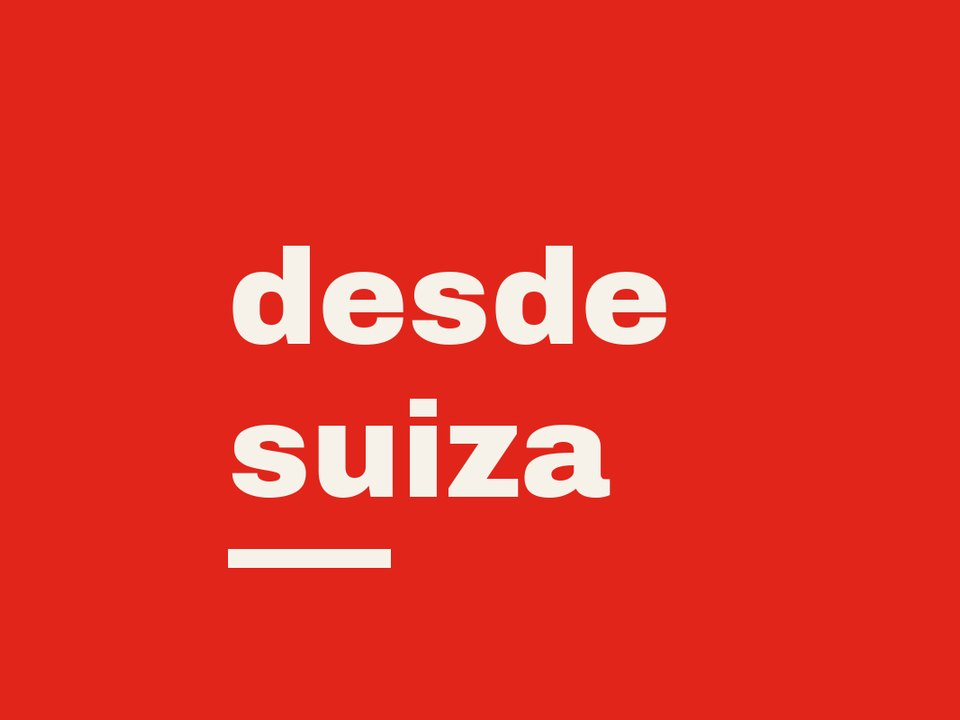
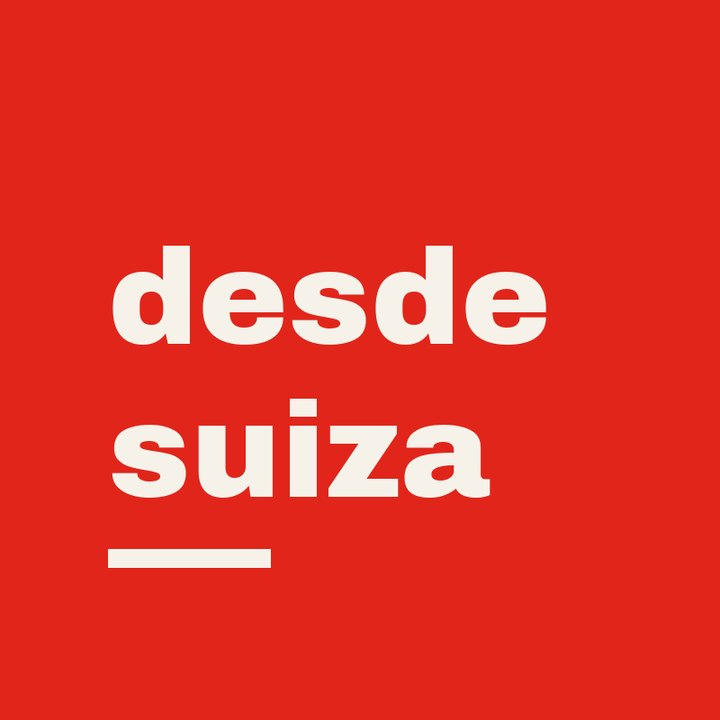
Square project covers and portrait
Claude-Session: https://claude.ai/code/session_01YAgtacwRQVfNvpHSNF1bKh

diff --git a/index.html b/index.html
@@ -83,7 +83,7 @@ nav a[aria-current="page"]{color:var(--red-text)}
 .head-row p{color:var(--muted)}
 .grid{display:grid; grid-template-columns:repeat(auto-fit, minmax(260px, 1fr)); gap:22px}
 .card{background:var(--surface); border:1.5px solid var(--line); border-radius:14px; overflow:hidden; display:flex; flex-direction:column}
-.cover{display:block; width:100%; max-width:100%; aspect-ratio:4/3; object-fit:cover; background:#F7F5F0; border-bottom:1.5px solid var(--line)}
+.cover{display:block; width:100%; max-width:100%; aspect-ratio:1/1; object-fit:cover; background:#F7F5F0; border-bottom:1.5px solid var(--line)}
 .cover-text{aspect-ratio:2/1; max-width:100%; display:flex; align-items:center; justify-content:center; gap:14px; background:#1C1917; color:#F4EFE6; font-family:var(--display); font-size:34px; font-weight:600; letter-spacing:-0.02em}
 .cover-text .cross{width:34px; height:34px; border-radius:4px; background:#C8102E; position:relative; flex:none}
 .cover-text .cross::before,.cover-text .cross::after{content:""; position:absolute; background:#FFFFFF; left:50%; top:50%; transform:translate(-50%,-50%)}
@@ -109,8 +109,8 @@ footer .wrap{display:flex; flex-wrap:wrap; justify-content:space-between; gap:10
 
 /* about */
 .about-hero .wrap{display:flex; flex-wrap:wrap; align-items:center; gap:36px 56px; padding-block:80px}
-.portrait{flex:0 1 380px; max-width:100%; margin:0; position:relative}
-.portrait img{display:block; width:100%; max-width:100%; aspect-ratio:4/3; object-fit:cover; object-position:50% 28%; border-radius:16px; background:var(--cover)}
+.portrait{flex:0 1 340px; max-width:100%; margin:0; position:relative}
+.portrait img{display:block; width:100%; max-width:100%; aspect-ratio:1/1; object-fit:cover; object-position:50% 50%; border-radius:16px; background:var(--cover)}
 .portrait::after{content:""; position:absolute; left:-10px; bottom:-10px; width:64px; height:64px; border-radius:50%; background:
   repeating-linear-gradient(45deg, transparent 0 8px, color-mix(in srgb, var(--check) 85%, transparent) 8px 11px),
   repeating-linear-gradient(-45deg, transparent 0 8px, color-mix(in srgb, var(--check) 85%, transparent) 8px 11px), var(--red); border:4px solid var(--bg)}
@@ -187,7 +187,7 @@ footer .wrap{display:flex; flex-wrap:wrap; justify-content:space-between; gap:10
       </div>
       <div class="grid">
         <article class="card">
-          <img class="cover" src="hdp-cover.jpg" alt="Historias de Pasta logo: Dani holding a euro coin" width="960" height="720" loading="lazy">
+          <img class="cover" src="hdp-cover.jpg" alt="Historias de Pasta logo: Dani holding a euro coin" width="720" height="720" loading="lazy">
           <div class="in">
             <span class="tag" data-i18n="live">Live</span>
             <h3>Historias de Pasta</h3>
@@ -202,7 +202,7 @@ footer .wrap{display:flex; flex-wrap:wrap; justify-content:space-between; gap:10
           </div>
         </article>
         <article class="card">
-          <img class="cover" src="ms-cover.jpg" alt="Money Stories: Leo holding a Swiss franc coin" width="960" height="720" loading="lazy">
+          <img class="cover" src="ms-cover.jpg" alt="Money Stories: Leo holding a Swiss franc coin" width="720" height="720" loading="lazy">
           <div class="in">
             <span class="tag soon" data-i18n="soon">Coming soon</span>
             <h3>Money Stories</h3>
@@ -211,7 +211,7 @@ footer .wrap{display:flex; flex-wrap:wrap; justify-content:space-between; gap:10
           </div>
         </article>
         <article class="card">
-          <img class="cover" src="ds-cover.jpg" alt="Desde Suiza logo" width="960" height="720" loading="lazy">
+          <img class="cover" src="ds-cover.jpg" alt="Desde Suiza logo" width="720" height="720" loading="lazy">
           <div class="in">
             <span class="tag soon" data-i18n="soon">Coming soon</span>
             <h3>Desde Suiza</h3>
